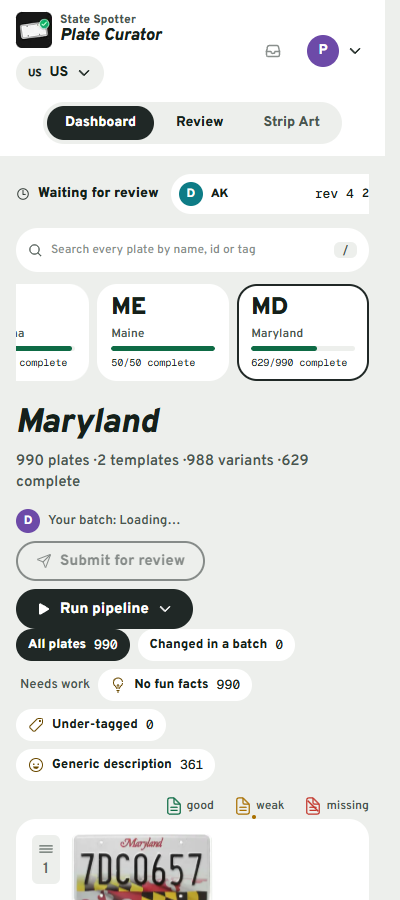
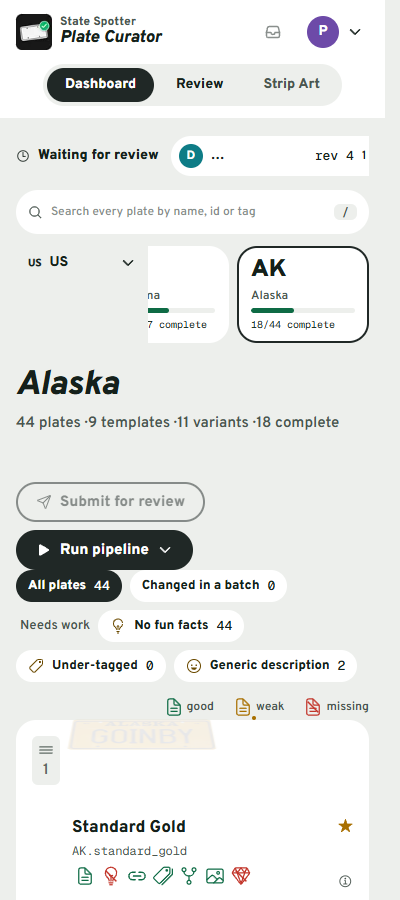
feat(ui): narrow sidebar cards with the region switch on top

diff --git a/tests/client/navigation-layout.test.tsx b/tests/client/navigation-layout.test.tsx
@@ -79,8 +79,12 @@ test('shared controls stay mounted when the router changes the state parameter',
 })
 
 const { JurisdictionNav } = await import('@/components/dashboard/jurisdiction-nav')
+const { CuratorHeader } = await import('@/components/app/curator-header')
 const { RegionPill } = await import('@/components/app/region-pill')
 const { summarizeRegions } = await import('@/components/app/regions')
+vi.mock('@/components/app/header-actions', () => ({ HeaderActions: () => <div>Actions</div> }))
+vi.mock('@/components/app/workspace-tabs', () => ({ WorkspaceTabs: () => <div>Tabs</div> }))
+
 const jurisdictions = [
   { code: 'AK', name: 'Alaska', region: 'US' },
   { code: 'MD', name: 'Maryland', region: 'US' },
@@ -152,4 +156,17 @@ test.each([
   style.mockRestore()
   width.mockRestore()
   height.mockRestore()
+})
+
+
+test('region switch is first in jurisdiction navigation and absent from the header', () => {
+  const view = render(
+    <JurisdictionNav jurisdictions={jurisdictions}>
+      <RegionPill regions={summarizeRegions(jurisdictions)} jurisdictions={jurisdictions} />
+    </JurisdictionNav>,
+  )
+  expect(screen.getByRole('navigation').firstElementChild?.contains(screen.getByRole('combobox'))).toBe(true)
+  view.unmount()
+  render(<CuratorHeader />)
+  expect(screen.queryByRole('combobox')).toBeNull()
 })

diff --git a/app/globals.css b/app/globals.css
@@ -319,6 +319,24 @@ body {
   padding-bottom: var(--space-1);
   min-height: 100px;
 }
+.jurisdiction-region {
+  position: sticky;
+  left: 0;
+  z-index: 1;
+  flex: 0 0 132px;
+  width: 132px;
+  align-self: stretch;
+  background: var(--ground);
+  padding-bottom: var(--space-2);
+}
+.jurisdiction-region [data-slot='select-trigger'] {
+  width: 132px;
+}
+.jurisdiction-region-skeleton {
+  height: 34px;
+  border-radius: var(--radius-pill);
+  background: var(--fill);
+}
 .jurisdiction-card {
   display: flex;
   flex: 0 0 132px;
@@ -446,6 +464,7 @@ body {
   border-radius: var(--radius-lg);
 }
 .skeleton-jurisdictions {
+  display: flex;
   height: 100px;
   background: var(--card);
 }
@@ -454,7 +473,7 @@ body {
 }
 @media (min-width: 1024px) {
   .states-layout {
-    grid-template-columns: 232px minmax(0, 1fr);
+    grid-template-columns: calc(132px + 17px + var(--space-1)) minmax(0, 1fr);
     grid-template-rows: auto auto 1fr;
     column-gap: var(--space-6);
     align-items: start;
@@ -489,7 +508,12 @@ body {
   }
   .states-layout .jurisdiction-card {
     flex: 0 0 auto;
-    width: 100%;
+    width: 132px;
+  }
+  .states-layout .jurisdiction-region {
+    top: 0;
+    left: auto;
+    flex: 0 0 auto;
   }
   .states-layout > .skeleton-jurisdictions {
     display: flex;

diff --git a/components/dashboard/jurisdiction-nav.tsx b/components/dashboard/jurisdiction-nav.tsx
@@ -1,17 +1,19 @@
 'use client'
 
+import type { ReactNode } from 'react'
 import { useParams, usePathname } from 'next/navigation'
 import type { JurisdictionSummary } from '@/lib/catalog/dashboard-types'
 import { routeRegion } from '@/components/app/regions'
 import { JurisdictionCard } from './jurisdiction-card'
 
-export function JurisdictionNav({ jurisdictions }: { jurisdictions: JurisdictionSummary[] }) {
+export function JurisdictionNav({ jurisdictions, children }: { jurisdictions: JurisdictionSummary[]; children?: ReactNode }) {
   const params = useParams()
   const pathname = usePathname()
   const region = routeRegion(params, pathname, jurisdictions)
   const visible = jurisdictions.filter((jurisdiction) => jurisdiction.region === region)
   return (
     <nav className="jurisdiction-strip" aria-label="Jurisdictions">
+      <div className="jurisdiction-region">{children}</div>
       {visible.length ? visible.map((jurisdiction) => (
         <JurisdictionCard key={jurisdiction.code} jurisdiction={jurisdiction} />
       )) : <p>No jurisdictions available.</p>}

diff --git a/components/dashboard/dashboard-data.tsx b/components/dashboard/dashboard-data.tsx
@@ -2,6 +2,8 @@ import { Suspense } from 'react'
 import { connection } from 'next/server'
 import { notFound } from 'next/navigation'
 import { loadDashboard, loadJurisdiction } from '@/lib/catalog/dashboard'
+import { RegionPill } from '@/components/app/region-pill'
+import { summarizeRegions } from '@/components/app/regions'
 import { JurisdictionNav } from './jurisdiction-nav'
 import { StateHeader } from './state-header'
 import { FilterBar } from './filter-bar'
@@ -11,7 +13,14 @@ import { filterCounts, projectFamilyPlate } from './family-data'
 export async function JurisdictionStrip() {
   await connection()
   const { jurisdictions } = await loadDashboard()
-  return <JurisdictionNav jurisdictions={jurisdictions} />
+  return (
+    <JurisdictionNav jurisdictions={jurisdictions}>
+      <RegionPill
+        regions={summarizeRegions(jurisdictions)}
+        jurisdictions={jurisdictions.map(({ code, region }) => ({ code, region }))}
+      />
+    </JurisdictionNav>
+  )
 }
 
 export async function StateContent({ code }: { code: string }) {

diff --git a/components/app/curator-header.tsx b/components/app/curator-header.tsx
@@ -1,29 +1,12 @@
-import { Suspense } from 'react'
-import { connection } from 'next/server'
-import { loadDashboard } from '@/lib/catalog/dashboard'
 import { Brand } from './brand'
-import { RegionPill, StaticRegionPill } from './region-pill'
-import { summarizeRegions } from './regions'
 import { WorkspaceTabs } from './workspace-tabs'
 import { HeaderActions } from './header-actions'
-
-async function RegionLoader() {
-  await connection()
-  const { jurisdictions } = await loadDashboard()
-  return <RegionPill
-    regions={summarizeRegions(jurisdictions)}
-    jurisdictions={jurisdictions.map(({ code, region }) => ({ code, region }))}
-  />
-}
 
 export function CuratorHeader() {
   return (
     <header className="app-header">
       <div className="brand-region">
         <Brand />
-        <Suspense fallback={<StaticRegionPill />}>
-          <RegionLoader />
-        </Suspense>
       </div>
       <WorkspaceTabs />
       <HeaderActions />

diff --git a/components/app/region-pill.tsx b/components/app/region-pill.tsx
@@ -10,16 +10,6 @@ import {
   SelectValue,
 } from '../ui/select'
 
-export function StaticRegionPill() {
-  return (
-    <Select value="US" disabled>
-      <SelectTrigger aria-label="Region">
-        <SelectValue><span aria-hidden="true">🇺🇸</span> US</SelectValue>
-      </SelectTrigger>
-    </Select>
-  )
-}
-
 export function RegionPill({ regions, jurisdictions }: {
   regions: RegionSummary[]
   jurisdictions: JurisdictionRegion[]

diff --git a/components/dashboard/skeleton.tsx b/components/dashboard/skeleton.tsx
@@ -10,6 +10,7 @@ export function DashboardSkeleton({
       aria-label={`Loading ${kind}`}
     >
       <span className="sr-only">Loading {kind}…</span>
+      {kind === 'jurisdictions' ? <span className="jurisdiction-region jurisdiction-region-skeleton" /> : null}
       {kind === 'jurisdictions' ? Array.from({ length: 8 }, (_, index) => (
         <span key={index} className="jurisdiction-skeleton-card" />
       )) : null}
